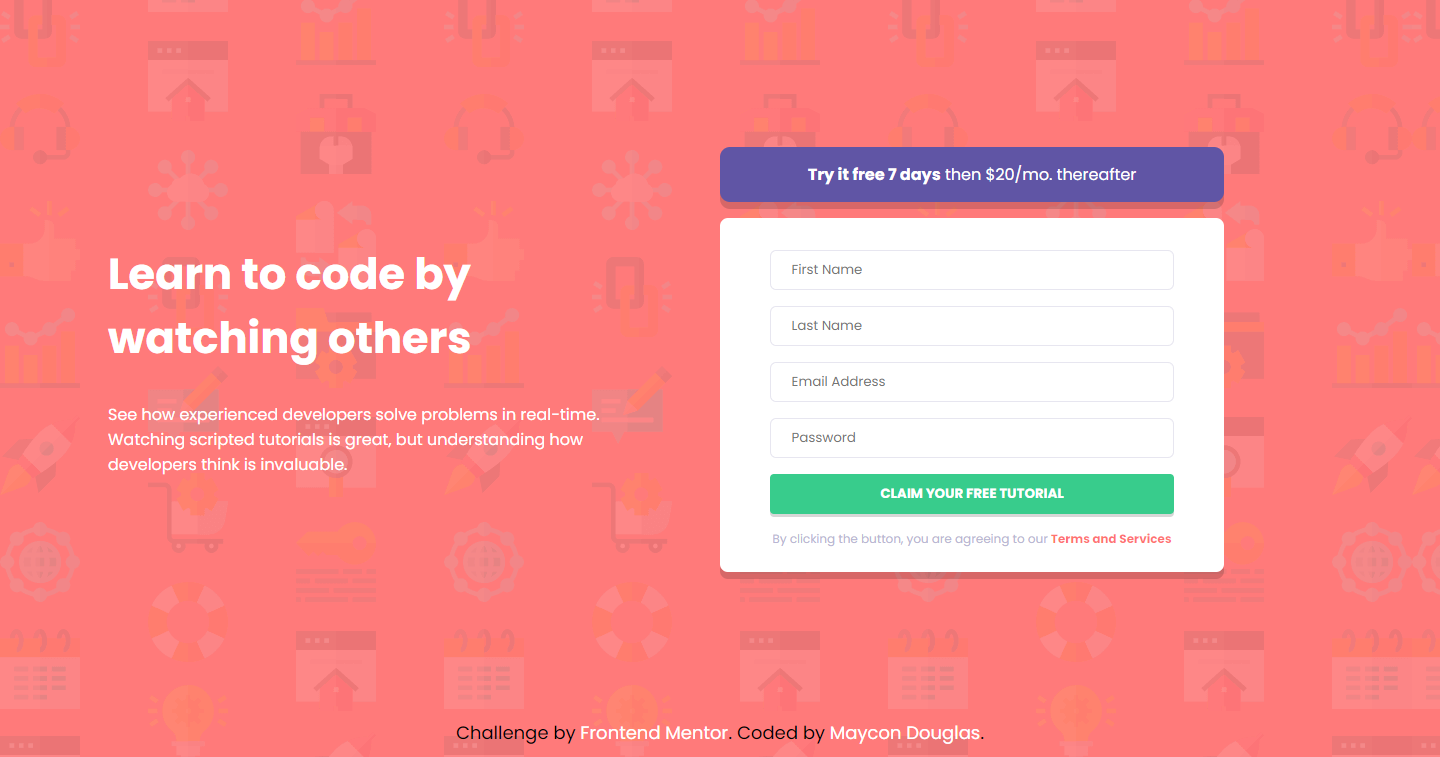
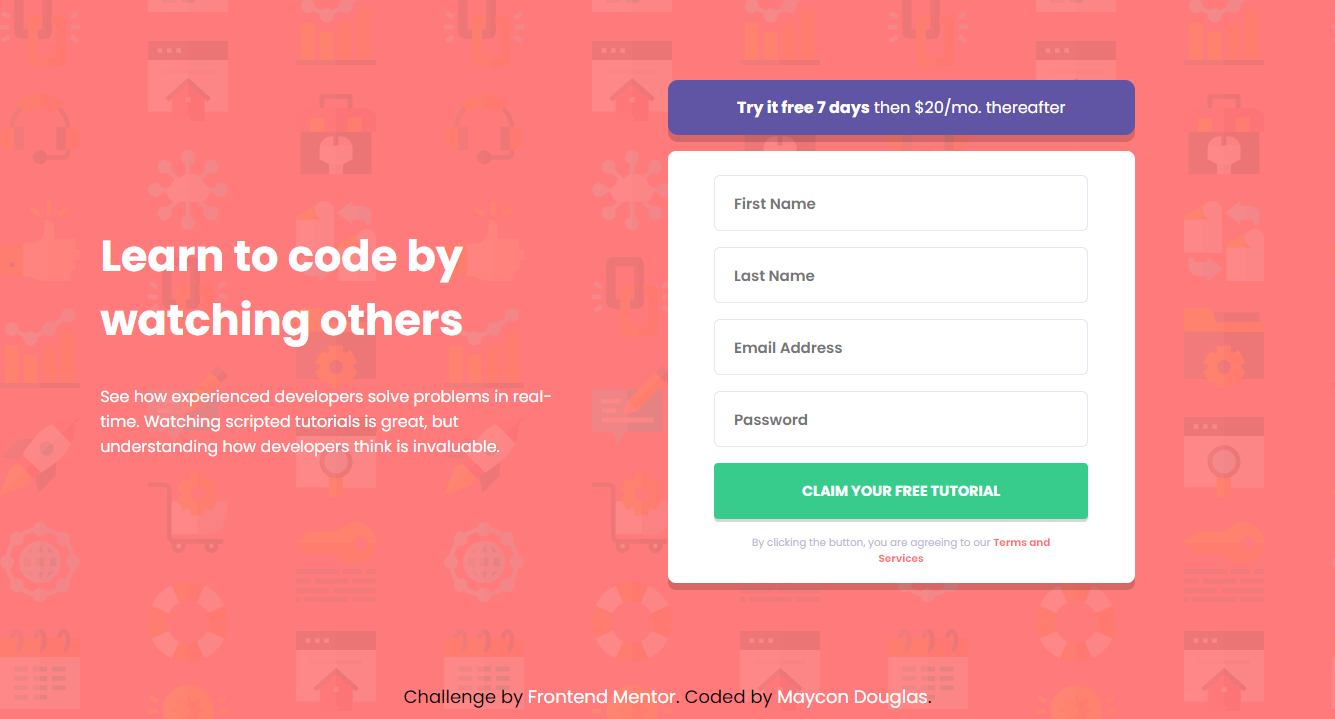
layout atualizado

diff --git a/style.css b/style.css
@@ -46,7 +46,9 @@ main {
 
 
 .form {
+    margin-top: 5rem;
     width: 50%;
+    height: 70vh;
     display: flex;
     flex-direction: column;
     justify-content: center;
@@ -68,6 +70,7 @@ main {
 }
 
 .conteudo-form {
+    height: 60vh;
     width: 100%;
     background: white;
     display: flex;
@@ -91,12 +94,14 @@ main {
 }
 
 .input-user {
+    font-size: 15px;
+    font-weight: 600;
     display: flex;
     width: 100%;
-    height: 2.5rem;
+    height: 3.5rem;
     margin-bottom: 1rem;
     border-radius: 6px;
-    border: hsla(246, 25%, 77%, 0.349) 1px solid;
+    border: hsla(246, 25%, 77%, 0.349) 0.7px solid;
     outline-color: hsl(246, 25%, 77%);
     padding-left: 5%;
 }
@@ -104,13 +109,14 @@ main {
 
 
 .btn-form {
+    font-size: 0.9rem;
     width: 100%;
     background: hsl(154, 59%, 51%) ;
     border: none;
-    height: 2.5rem;
+    height: 3.5rem;
     border-radius: 4px;
     text-transform: uppercase;
-    font-weight: bold;
+    font-weight: 700;
     color: white;
     box-shadow: rgba(0, 0, 0, 0.158) 0px 3px 0px ;
     transition: 400ms;
@@ -121,8 +127,11 @@ main {
 }
 
 .conteudo-form p {
+    width: 90%;
+    margin-left: auto;
+    margin-right: auto;
     margin-top: 1rem;
-    font-size: 12px;
+    font-size: 0.65rem;
     color: hsl(246, 25%, 77%);
 }
 
